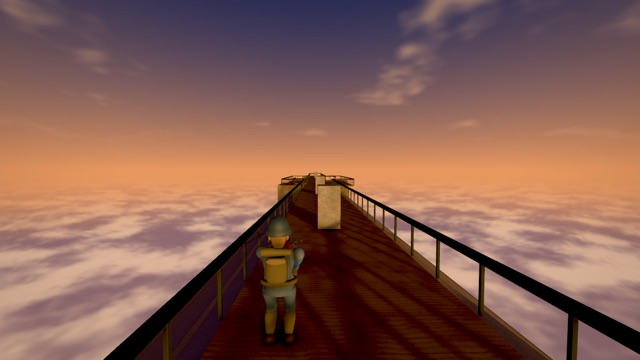
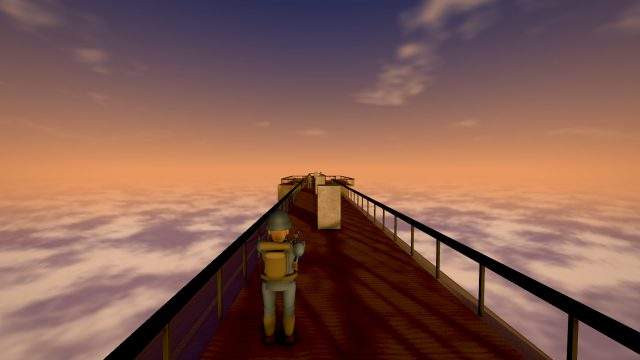
Render the map picker previews from the game at High quality (#80)
* Render map picker previews from the game at High quality

Add tools/map-previews.mjs, which opens each map at quality=high with the
fixed seed, runs a short battle and captures a clean third-person frame as
public/previews/<map>.jpg. Every card now uses that JPEG; the hand-drawn
SVG/PNG layout illustrations and their generators are removed.

Claude-Session: https://claude.ai/code/session_01TQNBdtG9o5SSWmLnXA7njo

* Take the Zeppelin preview from the top walk

Claude-Session: https://claude.ai/code/session_01TQNBdtG9o5SSWmLnXA7njo

* Regenerate Fort Vaux and Training previews from the game

Claude-Session: https://claude.ai/code/session_01TQNBdtG9o5SSWmLnXA7njo

* Regenerate the Verdun preview from the game

Claude-Session: https://claude.ai/code/session_01TQNBdtG9o5SSWmLnXA7njo

* Regenerate the Trench front preview from the game

Claude-Session: https://claude.ai/code/session_01TQNBdtG9o5SSWmLnXA7njo

* Take the Night raid preview by dugout lamplight

Claude-Session: https://claude.ai/code/session_01TQNBdtG9o5SSWmLnXA7njo

* Render the Lighthouse point preview from the game

Claude-Session: https://claude.ai/code/session_01TQNBdtG9o5SSWmLnXA7njo

* Take the Village preview from the street

Claude-Session: https://claude.ai/code/session_01TQNBdtG9o5SSWmLnXA7njo

* Hold the player still at preview viewpoints

Autoplay walked the player off the survey viewpoint during the battle
advance, so place the camera after the advance with manual control.
[…]

Changed region(s): [[0.4062, 0.5806, 0.5, 0.8861], [0.4688, 0.4889, 0.5, 0.5194]]

diff --git a/src/battlefield-info.ts b/src/battlefield-info.ts
@@ -13,8 +13,7 @@ export const battlefieldInfo = {
 };
 export function battlefieldCard(map: MapDefinition, href?: string) {
   const info = battlefieldInfo[map.id];
-  const overview=!!map.buildings&&map.id!=="village"&&!map.fort&&!map.sky,extension=map.id==="village"?"png":overview?"svg":"jpg";
   const roster = map.id === "fort-vaux" ? `Indoor ${map.defaultTeamSize}v${map.defaultTeamSize}. ` : map.sky ? `Airship ${map.defaultTeamSize}v${map.defaultTeamSize}. ` : "";
-  const content = `<img src="${publicAsset(`previews/${map.id}.${extension}`)}" alt="${map.name} ${overview ? "layout overview" : "battlefield"}" width="320" height="180" loading="lazy"><strong>${map.name}</strong><small>${info.setting} · ${info.factions}</small><p>${roster}${info.description}</p>`;
+  const content = `<img src="${publicAsset(`previews/${map.id}.jpg`)}" alt="${map.name} battlefield" width="320" height="180" loading="lazy"><strong>${map.name}</strong><small>${info.setting} · ${info.factions}</small><p>${roster}${info.description}</p>`;
   return href ? `<a data-battlefield="${map.id}" href="${href}">${content}</a>` : `<span data-battlefield="${map.id}" aria-current="page">${content}</span>`;
 }

diff --git a/src/public-assets.test.ts b/src/public-assets.test.ts
@@ -1,6 +1,6 @@
 import { afterEach, expect, it, vi } from "vitest";
 import { existsSync } from "node:fs";
-import { battlefieldCard } from "./battlefield-info";
+import { battlefieldCard, battlefieldInfo } from "./battlefield-info";
 import { industrialMap } from "./map";
 import { villageMap } from "./village-map";
 import { headlandMap } from "./headland-map";
@@ -16,4 +16,9 @@ it.each(["/", "/sector-control/"])("keeps map previews under the deployment base
     expect(existsSync(new URL("../public/" + src.slice(base.length), import.meta.url))).toBe(true);
     expect(card).toContain(`href="?map=${map.id}"`);
   }
+});
+
+// Card images are frames rendered by tools/map-previews.mjs, one JPEG per map.
+it.each(Object.keys(battlefieldInfo))("has a rendered preview for %s", (id) => {
+  expect(existsSync(new URL(`../public/previews/${id}.jpg`, import.meta.url))).toBe(true);
 });

diff --git a/docs/RENDER_REVIEW.md b/docs/RENDER_REVIEW.md
@@ -20,6 +20,17 @@ Each build's browser jobs check the map links and available loadouts in the brie
 
 **Map and model visual comparison** is opt-in: add the `visual-comparison` label to a map, model or rendering PR, and it builds both the target branch and proposed merge, then compares again on each push while the label stays on. It renders every map twice, so it does not run unlabelled. Each map job uses the same browser, graphics preset, opening seed and camera setup for both revisions. Download `visual-comparison-<map>` from the run summary, extract it and open `index.html` to compare overviews and first-person views side by side. Village and Fort Vaux also include four inspection views each. New maps receive screenshots of the proposed build until a base revision contains the map. These opening scenes are for review and do not gate publishing or merges. A viewpoint that only one revision has is shown alone, labelled as new or removed; the base build is simply not asked for viewpoints it predates. Trench front's close-ups (boundary wire, trench block, dugout, signboard, no-man's land, firing step) are captured before the battle, so they are compared too.
 
+## Map picker previews
+
+The map picker's card images in `public/previews/` are frames from the game, not illustrations. Regenerate them after a visible change to a map:
+
+```sh
+npx vite build --base /sector-control/
+node tools/map-previews.mjs dist public/previews
+```
+
+Each map opens at `quality=high` with the fixed opening seed, runs a short battle and is captured in third person with the HUD hidden, at 1280×720 downscaled to a 640×360 JPEG. Name maps after the output folder to render only those, for example `node tools/map-previews.mjs dist public/previews verdun village`. The per-map camera and timing live in `previewShots` at the top of the script. It runs under SwiftShader, which is slow (about a minute a map); `CHROME_PATH` can point at a Chrome with a GPU.
+
 ## Nightly and on-demand audits
 
 **Battlefield audits** runs on `main` nightly at 08:23 UTC. Use **Run workflow** in Actions for an on-demand run. The `audit-ai`, `audit-maps` and `audit-performance` artifacts contain JSON reports and any failure logs. They cover squad behavior and reactions, objective routes and structural collapse, and CPU timings for simulated battles, terrain updates and scenery rebuilds. The audit groups are independent of the PR gate, and their reported timings are diagnostic without a timing threshold. Run a group locally after `npm ci` with `node tools/run-battlefield-audits.mjs ai`, `maps` or `performance` as the last argument.

diff --git a/docs/GAME_GUIDE.md b/docs/GAME_GUIDE.md
@@ -163,7 +163,7 @@ Choose **Lighthouse point** in the start menu or open `?map=headland`. This is a
 
 The coastline is an authored outline (`coast` on the map definition). Ground beyond it is sea bed one bank height below the land, under a flat sea plane, and is closed to movement, navigation and deployment about a meter back from the cliff edge. Open-sea terrain patches are not built.
 
-Ten single-story houses come from the Village building kit, so they can be entered and destroyed. The lighthouse, church and two tenements are the contributed exterior models from `public/models/`, loaded only on this map. They are sealed: each has simple box collision and cannot be entered or destroyed. If a model fails to load, its collision box is drawn instead. Low walls, rocks, crates, sandbags and scattered trees provide cover. `tools/headland-preview.ts` regenerates the menu illustration.
+Ten single-story houses come from the Village building kit, so they can be entered and destroyed. The lighthouse, church and two tenements are the contributed exterior models from `public/models/`, loaded only on this map. They are sealed: each has simple box collision and cannot be entered or destroyed. If a model fails to load, its collision box is drawn instead. Low walls, rocks, crates, sandbags and scattered trees provide cover. `tools/map-previews.mjs` regenerates its menu preview, as for every map.
 
 ## Verdun forest trenches
 
